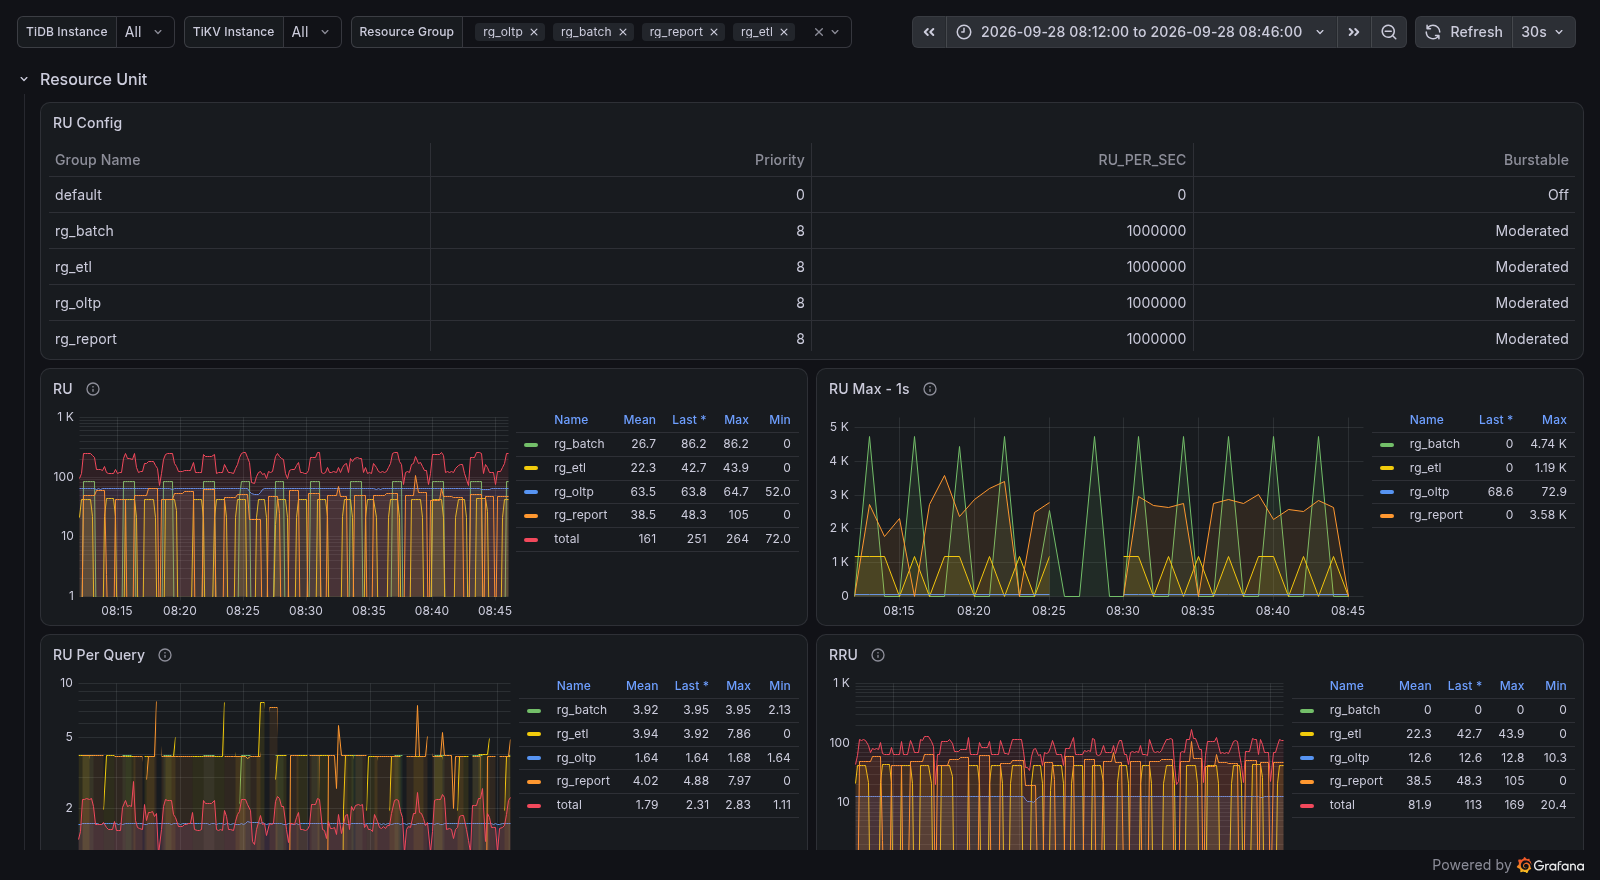
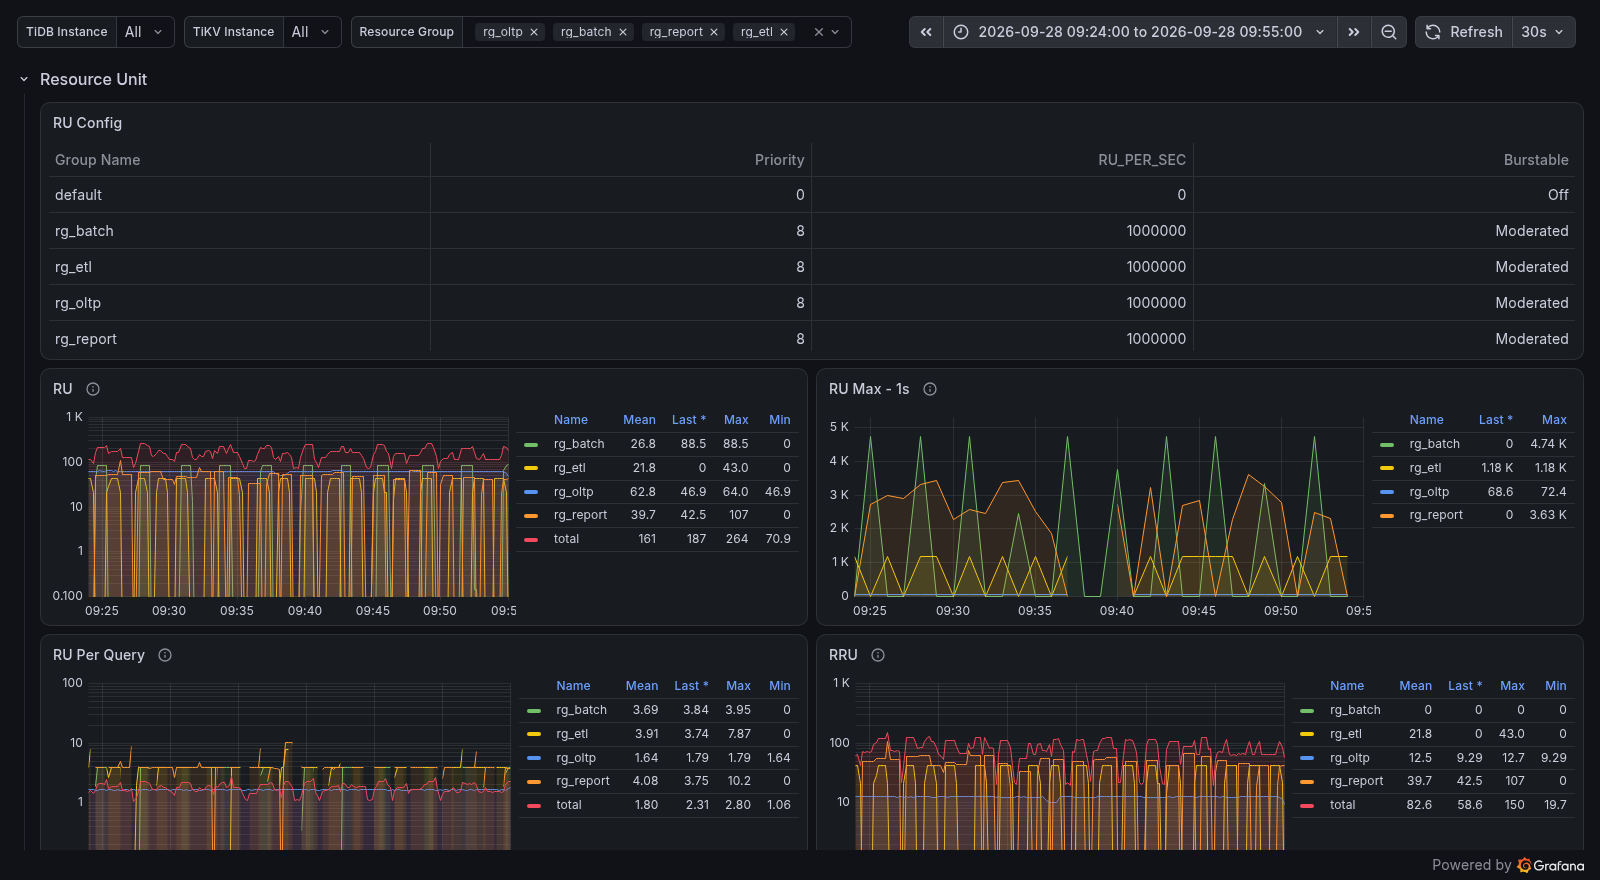
docs: record the RU peak dashboard with the 90-second horizon

diff --git a/grafana-2026-09-28/untimed.go b/grafana-2026-09-28/untimed.go
@@ -1,0 +1,43 @@
+// untimed sends token requests shaped like TiKV background and TiFlash
+// reports: flagged, carrying consumption, without per-second RU.
+package main
+
+import (
+	"context"
+	"flag"
+	"log"
+	"time"
+
+	rmpb "github.com/pingcap/kvproto/pkg/resource_manager"
+	pd "github.com/tikv/pd/client"
+	"github.com/tikv/pd/client/pkg/caller"
+)
+
+func main() {
+	group := flag.String("group", "rg_oltp", "resource group")
+	keyspace := flag.Uint("keyspace", 1, "keyspace id")
+	interval := flag.Duration("interval", 5*time.Second, "report interval")
+	flag.Parse()
+	ctx := context.Background()
+	cli, err := pd.NewClientWithContext(ctx, caller.TestComponent, []string{"127.0.0.1:29379"}, pd.SecurityOption{})
+	if err != nil {
+		log.Fatal(err)
+	}
+	defer cli.Close()
+	ks := &rmpb.KeyspaceIDValue{Keyspace: &rmpb.KeyspaceIDValue_Value{Value: uint32(*keyspace)}}
+	for range time.Tick(*interval) {
+		for _, bg := range []bool{true, false} {
+			req := &rmpb.TokenBucketRequest{
+				ResourceGroupName:           *group,
+				KeyspaceId:                  ks,
+				IsBackground:                bg,
+				IsTiflash:                   !bg,
+				ConsumptionSinceLastRequest: &rmpb.Consumption{RRU: 500, WRU: 50},
+			}
+			_, err := cli.AcquireTokenBuckets(ctx, &rmpb.TokenBucketsRequest{Requests: []*rmpb.TokenBucketRequest{req}, TargetRequestPeriodMs: 5000, ClientUniqueId: 424242})
+			if err != nil {
+				log.Println("acquire:", err)
+			}
+		}
+	}
+}

diff --git a/README.md b/README.md
@@ -6,9 +6,9 @@ Related work: [PD #11256](https://github.com/tikv/pd/issues/11256), [KVProto #15
 
 ## Dashboard on the final implementation (2026-09-28)
 
-A local NextGen cluster ran PD `182d5ca685` (tikv/pd#11293), TiDB built against PD client `11761f7521` (tikv/pd#11304) plus the idle-cleanup fix from tikv/pd#11308, a TiKV CSE store, Prometheus 3.14 and 2.55 scraping the same targets, and Grafana 13.2.2 with the Resource Control dashboard from TiDB `5dd5b26295` (pingcap/tidb#71408). [`load.py`](grafana-2026-09-28/load.py) drove four resource groups: `rg_oltp` steady on both TiDB nodes, `rg_batch` write bursts every three minutes on TiDB-a only, `rg_report` scan bursts starting in the same second on both nodes, and `rg_etl` scan bursts offset by 4–10 seconds between the nodes.
+A local NextGen cluster ran PD built from `3bd368f990` (tikv/pd#11293) and TiDB built against PD client `3bafa7bbd2` (tikv/pd#11304) plus the idle-cleanup fix from tikv/pd#11308, a TiKV CSE store, Prometheus 3.14 and 2.55 scraping the same targets, and Grafana 13.2.2 with the Resource Control dashboard from pingcap/tidb#71408. The submitted commits `e33a637601` and `fd4cec9423` differ from these builds only in a metric help string, comments and tests. [`load.py`](grafana-2026-09-28/load.py) drove four resource groups: `rg_oltp` steady on both TiDB nodes, `rg_batch` write bursts every three minutes on TiDB-a only, `rg_report` scan bursts starting in the same second on both nodes, and `rg_etl` scan bursts offset by 4–10 seconds between the nodes. Throughout the run, [`untimed.go`](grafana-2026-09-28/untimed.go) sent token requests shaped like TiKV background and TiFlash reports (flagged, carrying consumption, without per-second RU) for `rg_oltp` and `default` every five seconds; the resource manager counted them as background RU and the peaks of both groups were unaffected.
 
-TiDB-b was killed with SIGKILL at 08:25:17 UTC and was ready again at 08:25:33. The minutes ending 08:26–08:29 have no sample for the groups it served, and `rg_batch`, served only by TiDB-a, continues. No other minute is missing from 08:12 to 08:46, no controller was recreated after 08:09, and the conflict, invalid-payload, missing-payload and capacity counters stayed at 0.
+TiDB-b was killed with SIGKILL at 09:37:31 UTC and was ready again at 09:37:47. The minutes ending 09:38–09:40 have no sample for the groups it served, and `rg_batch`, served only by TiDB-a, continues. No other minute is missing from 09:24 to 09:55, no controller was recreated apart from the restarts, and the conflict, invalid-payload, missing-payload and capacity counters stayed at 0.
 
 ![RU Max - 1s](grafana-2026-09-28/ru-max-1s.png)
 
